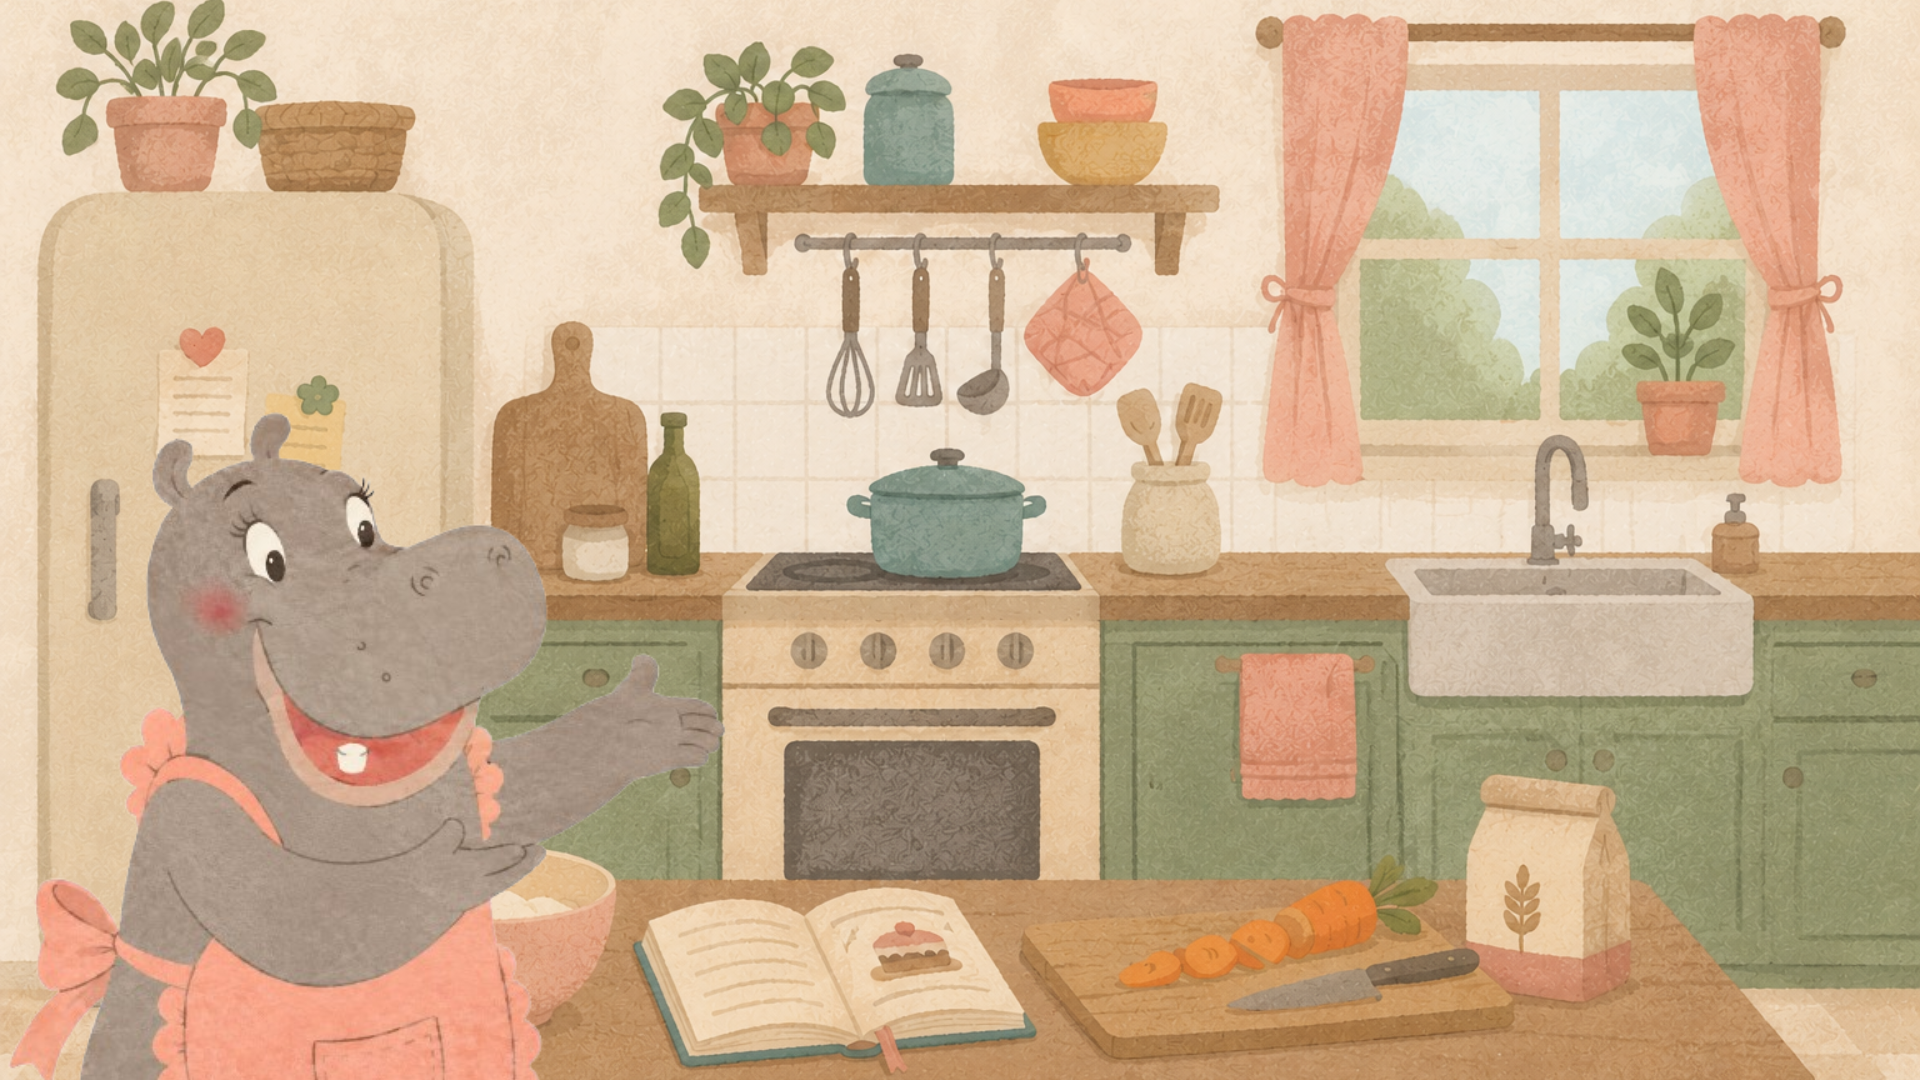
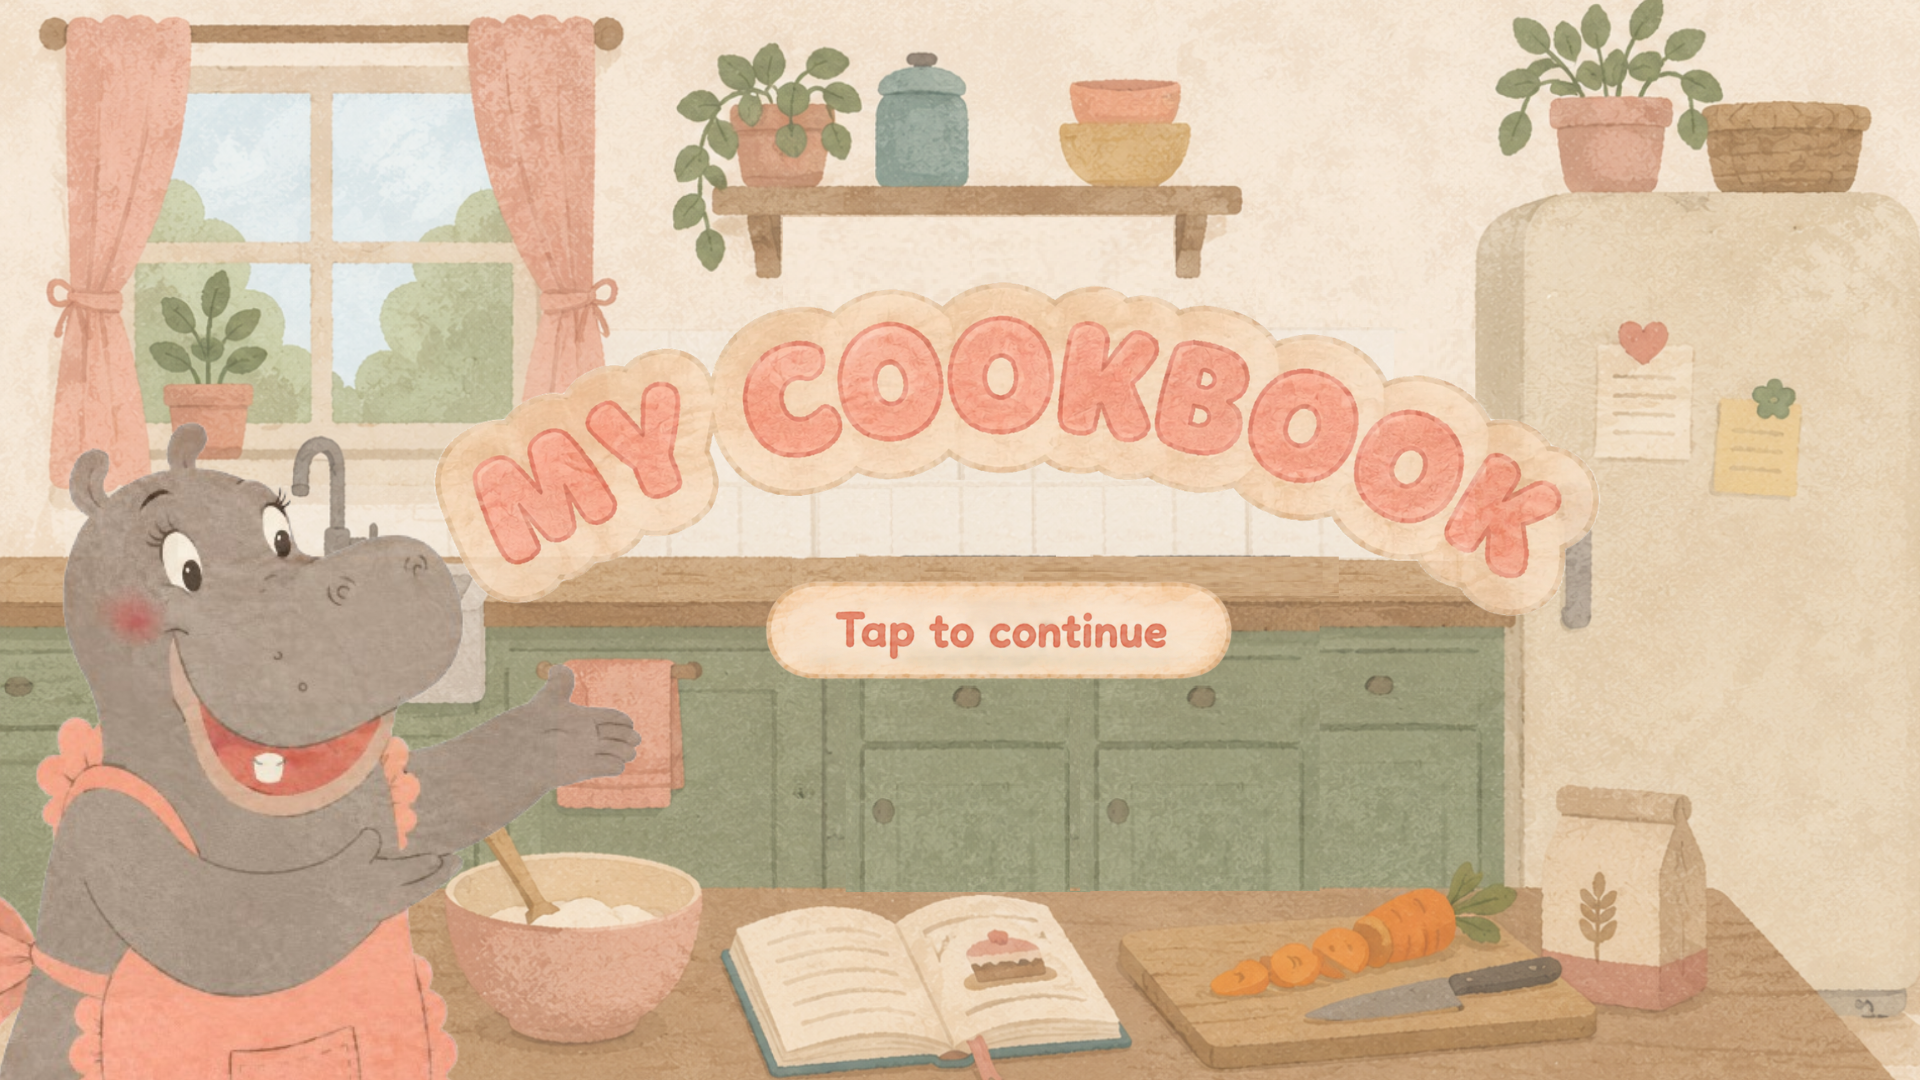
welcomescreen

diff --git a/static/css/style.css b/static/css/style.css
@@ -1,1 +1,13 @@
-@import url('https://fonts.googleapis.com/css2?family=Coiny&display=swap');
+.welcome-body {
+    height: 100vh;
+    display: flex;
+    flex-direction: column;
+    align-items: center;
+    justify-content: center;
+    cursor: pointer;
+    background-image: url("/static/images/welcome_screen.png");
+    background-size: cover;
+    background-position: center;
+    margin: 0;
+    padding: 0;
+}

diff --git a/templates/welcome.html b/templates/welcome.html
@@ -1,0 +1,10 @@
+<!DOCTYPE html>
+<html lang="de">
+<head>
+    <meta charset="UTF-8">
+    <title>My Cookbook</title>
+    <link rel="stylesheet" href="{{ url_for('static', filename='css/style.css') }}">
+</head>
+<body class="welcome-body" onclick="window.location.href='/recipes'">
+</body>
+</html>

diff --git a/app.py b/app.py
@@ -38,6 +38,10 @@ class Preparation(db.Model):
     recipe_id = db.Column(db.Integer, db.ForeignKey('recipe.id'))
 
 @recipe_app.route('/')
+def welcome():
+    return render_template('welcome.html')
+
+@recipe_app.route('/recipes')
 def home():
     recipes = Recipe.query.all()
     return render_template('index.html', recipes=recipes)